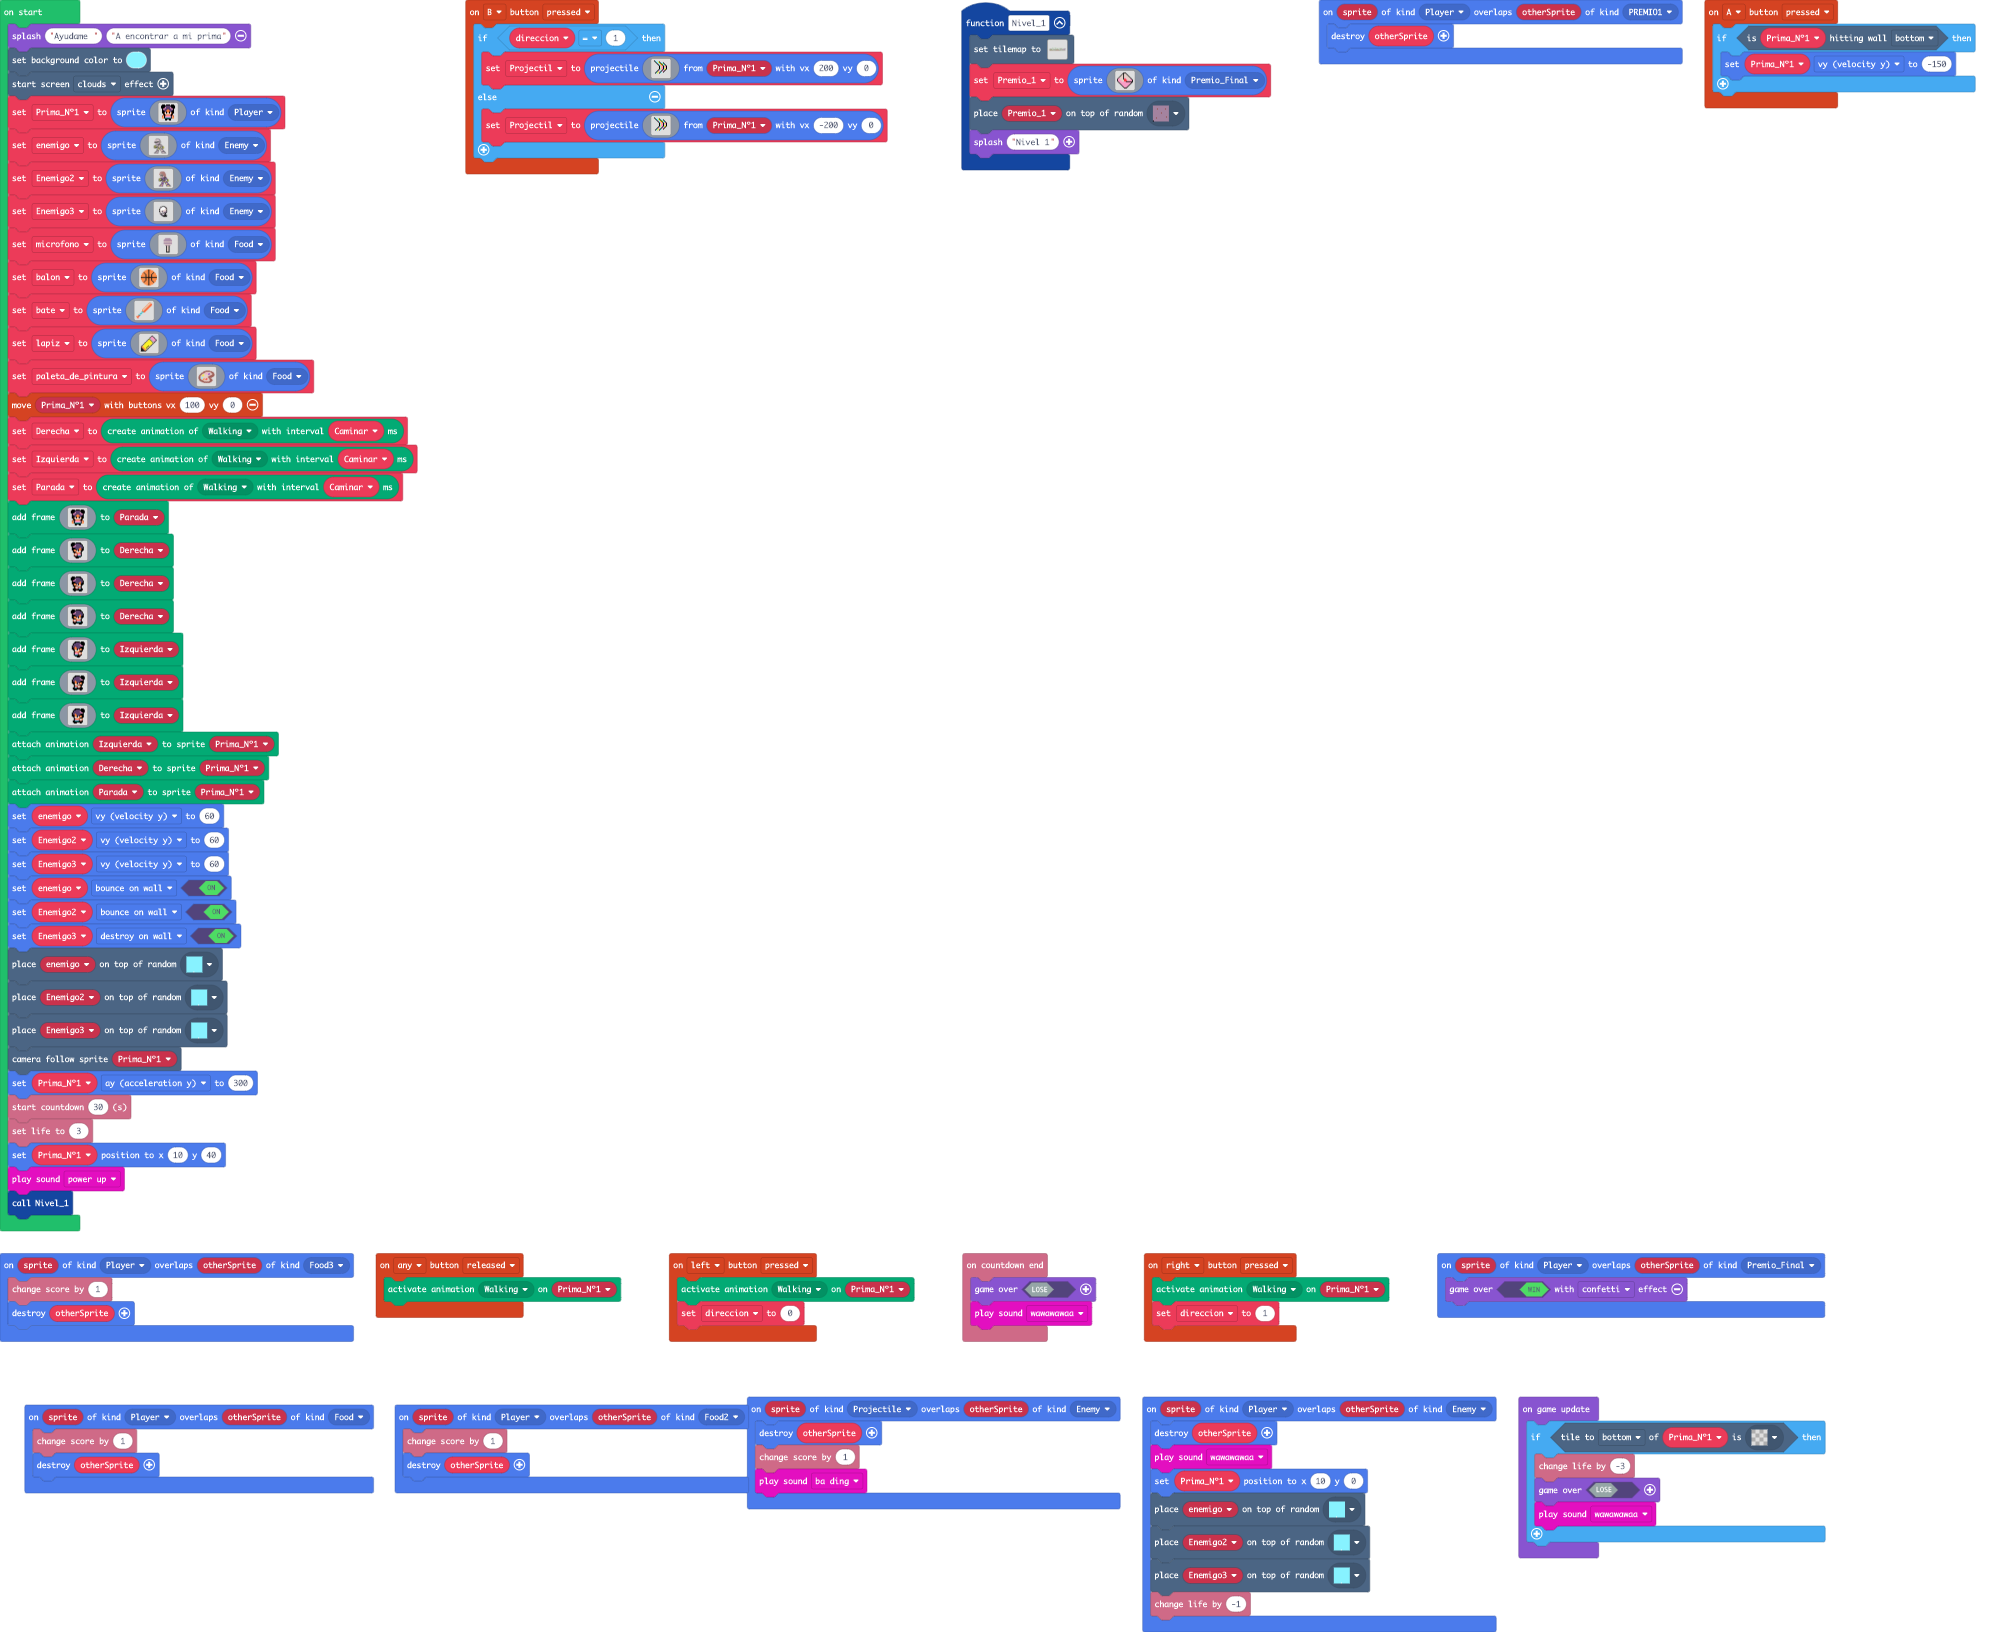
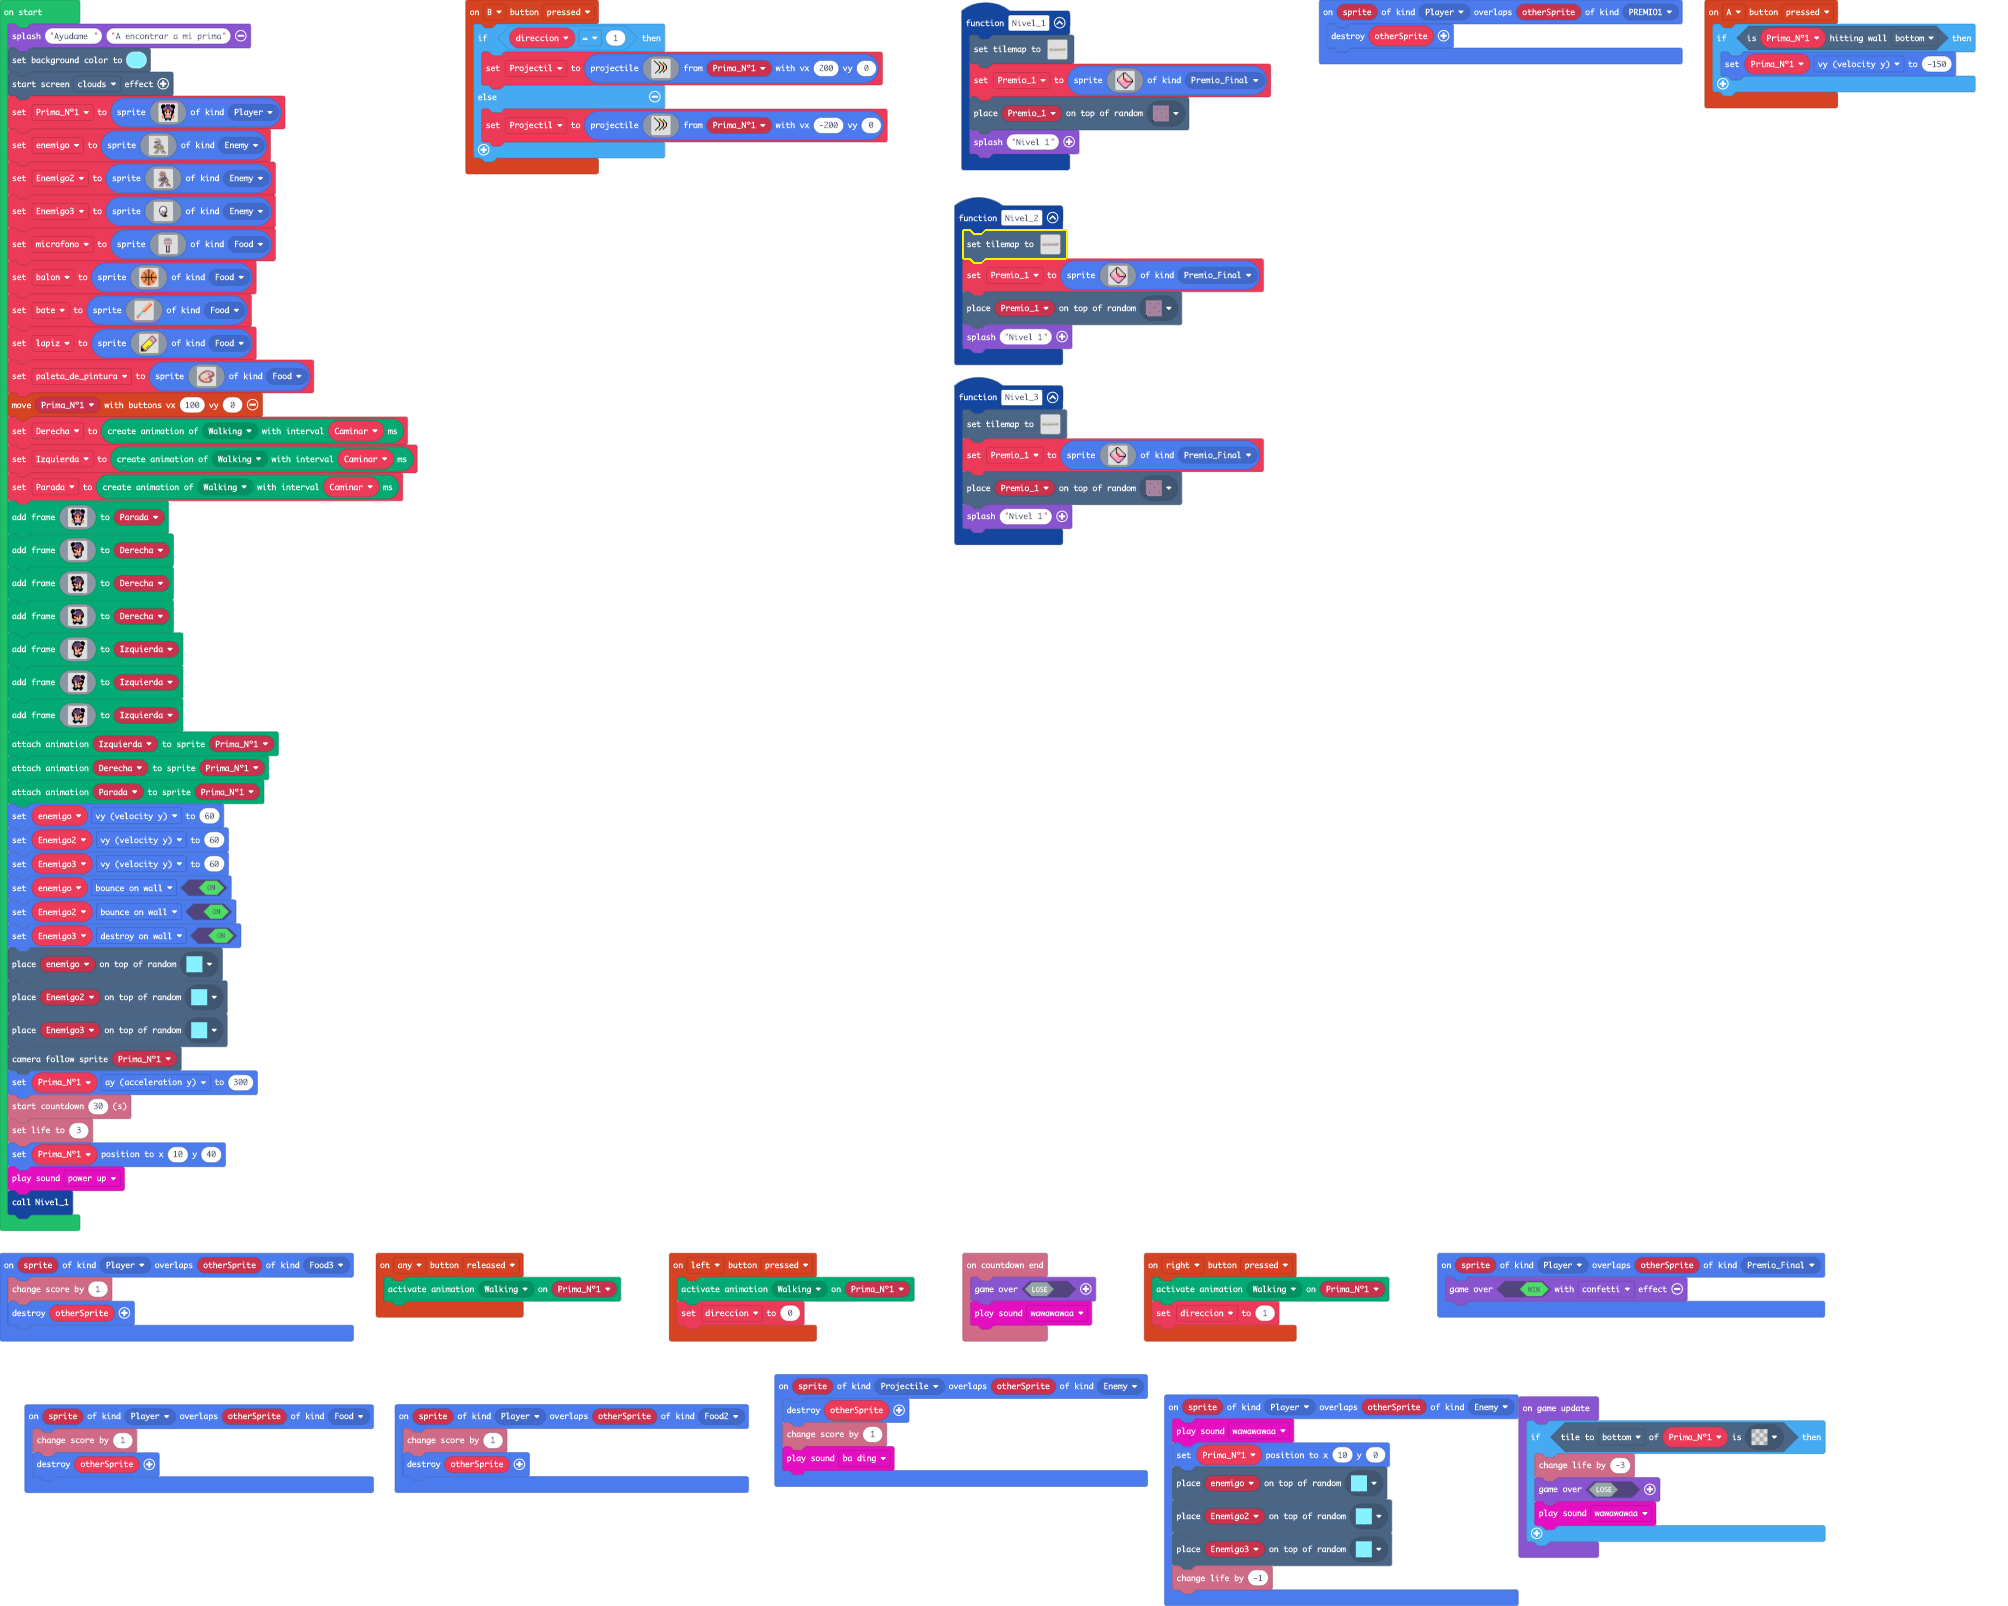
Update main.blocks, main.ts

diff --git a/main.ts b/main.ts
@@ -13,6 +13,44 @@ namespace SpriteKind {
     export const Food2 = SpriteKind.create()
     export const Food3 = SpriteKind.create()
 }
+function Nivel_3 () {
[1 lines of base64/hex data omitted]
+        . . . . . . . . . . . . . . . . . . . . . . . . . . . . . . . . . . . . . . . . . . . . . . . . . . . . . . . . . . . . 
+        . . . . . . . . . . . . . . . . . . . . 2 2 2 . . . . . . . . . . . . . . . . . . . . . . . . . . . . . . . . . . . . . 
+        . . . . . . . . . . . 2 2 2 2 . . . . . . . 2 2 2 2 2 . . . . . . . . . . . . . . 2 2 2 2 2 2 2 . . . . . . . . . . . . 
+        . . . . . . . . . . . . . . . . 2 . . . . . . . . . . . . 2 2 2 2 . . 2 2 2 2 2 2 . . . . . . . . 2 2 . . . . . . . . . 
+        . . . . . . . . . . . . . . . . . . . . . . . . . . . . 2 . . . . . . . . . . . . . . . . . . . . . . . . . . . . . . . 
+        2 2 . . . . . . . . . . . . . . . . . . . . . . . . . . . . . . . . . . . . . . . . . . . . . . . . . . . . . . . . . . 
+        2 2 2 2 2 2 2 2 2 2 2 2 . . 2 2 2 2 2 2 2 2 2 2 2 . . 2 2 2 2 2 2 . . 2 2 . . 2 2 2 2 2 2 2 2 2 2 2 . . . . . . . . . . 
+        2 2 2 2 2 2 2 2 2 2 2 . . . . 2 2 2 2 2 2 2 2 2 . . . 2 2 2 2 2 2 2 . . . . . . 2 2 2 2 2 2 2 . . . . 2 2 2 2 2 2 2 2 2 
+        2 2 2 2 2 . . . . . . . . . . . . . . . . . . . . . 2 2 2 2 2 2 2 2 2 . . . . . . . . . . . . . . . 2 . . . . . . . . 2 
+        2 2 2 2 2 2 2 . . . . . . . . . . . . . . . . . . 2 2 2 2 2 2 2 2 2 2 2 . . . . . . . . . . . . . 2 . . . . . . . . . 2 
+        2 2 2 2 2 2 2 2 2 2 2 2 2 2 2 2 2 2 2 2 2 2 2 2 2 2 2 2 2 2 2 2 2 2 2 2 2 2 2 2 2 2 2 2 2 . . . . . . . . . . . . . . 2 
+        2 2 2 2 2 2 2 2 2 2 2 2 2 2 2 2 2 2 2 2 2 2 2 2 2 2 2 2 2 2 2 2 2 2 2 2 2 2 2 2 2 2 2 2 2 2 2 2 2 2 2 2 2 2 2 2 2 2 2 2 
+        `, [myTiles.transparency16,myTiles.tile2,myTiles.tile3,myTiles.tile6,sprites.builtin.brick,sprites.dungeon.hazardSpike,myTiles.tile10,myTiles.tile11,myTiles.tile15,myTiles.tile16,myTiles.tile18,myTiles.tile20,myTiles.tile21,myTiles.tile17,myTiles.tile22,myTiles.tile23,myTiles.tile19,myTiles.tile24,myTiles.tile26,myTiles.tile27,myTiles.tile28,myTiles.tile30,sprites.castle.rock0,myTiles.tile31,myTiles.tile9,myTiles.tile12,myTiles.tile13,myTiles.tile14], TileScale.Sixteen))
+    Premio_1 = sprites.create(img`
+        . . . . . . . f f f . . . . . . . . 
+        . . . . . . f f d d f . . . . . . . 
+        . . . . . f d f d d d f . . . . . . 
+        . . . . f d d f d d d d f . . . . . 
+        . . . f d d d f d d d d d f . . . . 
+        . . f d d d d f d d d d d d f . . . 
+        . f 3 d d d d f 3 3 d d d d d f . . 
+        f 3 3 d d d d f 2 2 3 d d d d 3 f . 
+        f 3 3 3 d d d d 2 2 2 3 d d d 3 3 f 
+        f 3 3 3 3 d d d 2 2 2 3 3 3 3 3 3 f 
+        . f 3 3 3 3 d 3 3 3 f f f f f f f f 
+        . . f 3 3 3 3 3 3 3 3 3 3 3 3 3 f . 
+        . . . f 3 3 3 3 3 3 3 3 3 3 3 f . . 
+        . . . . f 3 3 3 3 3 3 3 3 3 f . . . 
+        . . . . . f 3 3 3 3 3 3 3 f . . . . 
+        . . . . . . f 3 3 3 3 3 f . . . . . 
+        . . . . . . . f 3 3 3 f . . . . . . 
+        . . . . . . . . f f f . . . . . . . 
+        `, SpriteKind.Premio_Final)
+    tiles.placeOnRandomTile(Premio_1, myTiles.tile14)
+    game.splash("Nivel 1")
+}
 controller.B.onEvent(ControllerButtonEvent.Pressed, function () {
     if (direccion == 1) {
         Projectil = sprites.createProjectileFromSprite(img`
@@ -122,6 +160,44 @@ controller.right.onEvent(ControllerButtonEvent.Pressed, function () {
 sprites.onOverlap(SpriteKind.Player, SpriteKind.Premio_Final, function (sprite, otherSprite) {
     game.over(true, effects.confetti)
 })
+function Nivel_2 () {
[1 lines of base64/hex data omitted]
+        . . . . . . . . . . . . . . . . . . . . . . . . . . . . . . . . . . . . . . . . . . . . . . . . . . . . . . . . . . . . 
+        . . . . . . . . . . . . . . . . . . . . 2 2 2 . . . . . . . . . . . . . . . . . . . . . . . . . . . . . . . . . . . . . 
+        . . . . . . . . . . . 2 2 2 2 . . . . . . . 2 2 2 2 2 . . . . . . . . . . . . . . 2 2 2 2 2 2 2 . . . . . . . . . . . . 
+        . . . . . . . . . . . . . . . . 2 . . . . . . . . . . . . 2 2 2 2 . . 2 2 2 2 2 2 . . . . . . . . 2 2 . . . . . . . . . 
+        . . . . . . . . . . . . . . . . . . . . . . . . . . . . 2 . . . . . . . . . . . . . . . . . . . . . . . . . . . . . . . 
+        2 2 . . . . . . . . . . . . . . . . . . . . . . . . . . . . . . . . . . . . . . . . . . . . . . . . . . . . . . . . . . 
+        2 2 2 2 2 2 2 2 2 2 2 2 . . 2 2 2 2 2 2 2 2 2 2 2 . . 2 2 2 2 2 2 . . 2 2 . . 2 2 2 2 2 2 2 2 2 2 2 . . . . . . . . . . 
+        2 2 2 2 2 2 2 2 2 2 2 . . . . 2 2 2 2 2 2 2 2 2 . . . 2 2 2 2 2 2 2 . . . . . . 2 2 2 2 2 2 2 . . . . 2 2 2 2 2 2 2 2 2 
+        2 2 2 2 2 . . . . . . . . . . . . . . . . . . . . . 2 2 2 2 2 2 2 2 2 . . . . . . . . . . . . . . . 2 . . . . . . . . 2 
+        2 2 2 2 2 2 2 . . . . . . . . . . . . . . . . . . 2 2 2 2 2 2 2 2 2 2 2 . . . . . . . . . . . . . 2 . . . . . . . . . 2 
+        2 2 2 2 2 2 2 2 2 2 2 2 2 2 2 2 2 2 2 2 2 2 2 2 2 2 2 2 2 2 2 2 2 2 2 2 2 2 2 2 2 2 2 2 2 . . . . . . . . . . . . . . 2 
+        2 2 2 2 2 2 2 2 2 2 2 2 2 2 2 2 2 2 2 2 2 2 2 2 2 2 2 2 2 2 2 2 2 2 2 2 2 2 2 2 2 2 2 2 2 2 2 2 2 2 2 2 2 2 2 2 2 2 2 2 
+        `, [myTiles.transparency16,myTiles.tile2,myTiles.tile3,myTiles.tile6,sprites.builtin.brick,sprites.dungeon.hazardSpike,myTiles.tile10,myTiles.tile11,myTiles.tile15,myTiles.tile16,myTiles.tile18,myTiles.tile20,myTiles.tile21,myTiles.tile17,myTiles.tile22,myTiles.tile23,myTiles.tile19,myTiles.tile24,myTiles.tile26,myTiles.tile27,myTiles.tile28,myTiles.tile30,sprites.castle.rock0,myTiles.tile31,myTiles.tile9,myTiles.tile12,myTiles.tile13,myTiles.tile14,sprites.builtin.oceanDepths0], TileScale.Sixteen))
+    Premio_1 = sprites.create(img`
+        . . . . . . . f f f . . . . . . . . 
+        . . . . . . f f d d f . . . . . . . 
+        . . . . . f d f d d d f . . . . . . 
+        . . . . f d d f d d d d f . . . . . 
+        . . . f d d d f d d d d d f . . . . 
+        . . f d d d d f d d d d d d f . . . 
+        . f 3 d d d d f 3 3 d d d d d f . . 
+        f 3 3 d d d d f 2 2 3 d d d d 3 f . 
+        f 3 3 3 d d d d 2 2 2 3 d d d 3 3 f 
+        f 3 3 3 3 d d d 2 2 2 3 3 3 3 3 3 f 
+        . f 3 3 3 3 d 3 3 3 f f f f f f f f 
+        . . f 3 3 3 3 3 3 3 3 3 3 3 3 3 f . 
+        . . . f 3 3 3 3 3 3 3 3 3 3 3 f . . 
+        . . . . f 3 3 3 3 3 3 3 3 3 f . . . 
+        . . . . . f 3 3 3 3 3 3 3 f . . . . 
+        . . . . . . f 3 3 3 3 3 f . . . . . 
+        . . . . . . . f 3 3 3 f . . . . . . 
+        . . . . . . . . f f f . . . . . . . 
+        `, SpriteKind.Premio_Final)
+    tiles.placeOnRandomTile(Premio_1, myTiles.tile14)
+    game.splash("Nivel 1")
+}
 sprites.onOverlap(SpriteKind.Player, SpriteKind.Food, function (sprite, otherSprite) {
     info.changeScoreBy(1)
     otherSprite.destroy()
@@ -136,7 +212,6 @@ sprites.onOverlap(SpriteKind.Projectile, SpriteKind.Enemy, function (sprite, oth
     music.baDing.play()
 })
 sprites.onOverlap(SpriteKind.Player, SpriteKind.Enemy, function (sprite, otherSprite) {
-    otherSprite.destroy()
     music.wawawawaa.play()
     Prima_Nº1.setPosition(10, 0)
     tiles.placeOnRandomTile(enemigo, myTiles.tile7)
@@ -144,9 +219,9 @@ sprites.onOverlap(SpriteKind.Player, SpriteKind.Enemy, function (sprite, otherSp
     tiles.placeOnRandomTile(Enemigo3, myTiles.tile7)
     info.changeLifeBy(-1)
 })
-let Premio_1: Sprite = null
 let Projectil: Sprite = null
 let direccion = 0
+let Premio_1: Sprite = null
 let Caminar = 0
 let Enemigo3: Sprite = null
 let Enemigo2: Sprite = null
